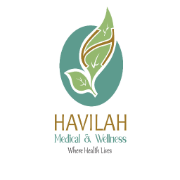
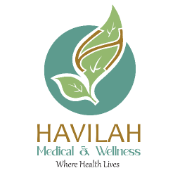
Fixed Pic Position On Home Page

Changed region(s): [[0.1944, 0.0278, 0.8056, 0.9444]]

diff --git a/index.html b/index.html
@@ -123,7 +123,7 @@
         <div class="container py-5">
             <div class="row g-5 align-items-center">
                 <div class="col-lg-5 wow fadeInLeft" data-wow-delay="0.2s">
-                    <div class="about-img pb-5 ps-5">
+                    <div class="about-img pb-5">
                         <img src="img/logo square.jpg" class="img-fluid rounded w-100" style="object-fit: cover;"
                             alt="Image">
                     </div>
